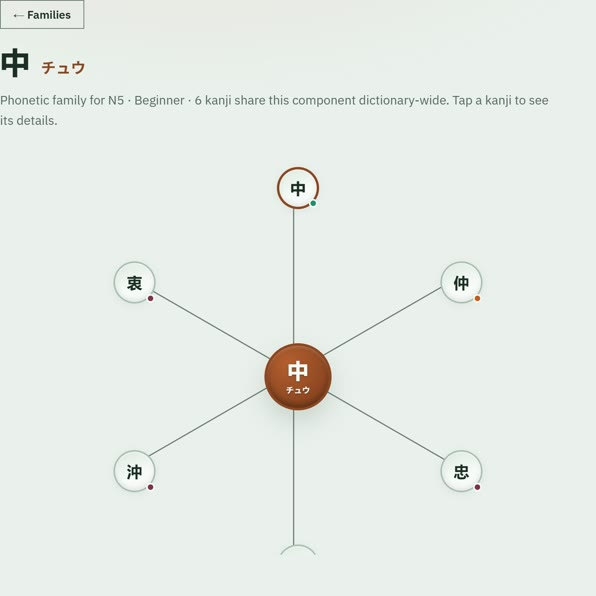
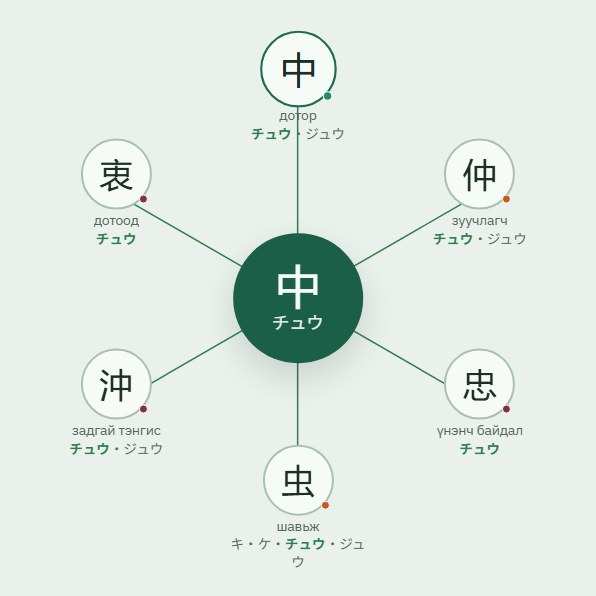
Phonetics Family takes its own seal, so the page is operated in the colour it is presented in
Option 1 of the palette audit, on the one page where it applies cleanly.

The hunch that started this was that the buttons were tinted to match the
Claude logo. The logo part is not what happened: nothing in the repo
references an Anthropic colour, and the three accents named were all set in
the original page builds on 2026-08-03/05 and had not moved since. The wider
version of the hunch was right. Anthropic's brand hues are 15, 15, 25 and 40
degrees; six of this site's eight interior accents sat between 9 and 38, six
of eight grounds were within 10 rgb units of #F4F1EA (path.css's --paper is
TWO units from it), and both display faces are serifs. That triad is the
first item in the list of AI-generated-design cliches Claude's own design
guidance names and says to avoid.

The discipline to fix it already existed and had been applied to one layer
only: the six hub --seal values WERE deliberately spread across the wheel,
and the interiors never obeyed them. Phonetics therefore PRESENTED teal
(160deg) and was OPERATED in copper (22deg), 138 degrees apart. The
2026-10-24 work that made each masthead match its seal touched the chrome
only, so on this page it widened the gap rather than closing it.

--accent is now #1f6b52, the seal index.html gives this tool, exactly -- the
probe asserts equality against the masthead rather than eyeballing it. Every
value is solved at hue 160 against this page's three real grounds in both
[…]

diff --git a/phonetics.css b/phonetics.css
@@ -2,9 +2,14 @@
    "Light jade" theme: this page's own scoped color palette, entirely separate from the
    shared style.css :root tokens (same pattern as game.css's .game-main "digital hanafuda"
    theme). A pale jade/celadon paper ground — the color of aged bronze seen as glaze rather
-   than as patina on dark metal — paired with the same warm copper accent (the un-oxidized
-   metal), so this still reads distinctly from Word Match's burgundy/gold page without
-   doubling up on a red accent.
+   as patina on dark metal — paired with the jade of this page's own hub seal.
+
+   The accent was a warm copper (#b35f2f, 22deg) until 2026-11-07, which put it in the
+   9-38deg band six of the site's eight surfaces were sitting in, and 138deg away from the
+   #1f6b52 seal that index.html gives this tool and that the masthead above it already wears.
+   You pressed a teal button on the home page and arrived somewhere entirely copper. The
+   accent is now derived from that seal, so the page is operated in the colour it is
+   presented in.
 
    Scoped to .phonetics-main (this page's whole content area) AND #phonetics-info-modal (the
    explainer modal). The modal is a DOM sibling of .phonetics-main, not a descendant — it lives
@@ -49,20 +54,29 @@ body:has(.phonetics-main),
        under the 4.5 floor for the small text they carry */
     --text-muted: #55665b;
     --text-muted: light-dark(#55665b, #93a89a);
-    --accent: #b35f2f;
-    --accent-light: #d1834f;
-    --accent-dark: #8c4620;
-    --accent-dark: light-dark(#8c4620, #e8a677);
-    --accent-tint: rgba(179, 95, 47, 0.12);
-    --accent-tint: light-dark(rgba(179, 95, 47, 0.12), rgba(209, 131, 79, 0.18));
-    /* Deliberately NOT the usual (--accent-light -> --accent) pair used on the other pages.
-       .auth-btn (style.css, shared sitewide, not editable here) hardcodes a white label on
-       var(--accent-gradient); white on --accent-light is only 2.97:1, so the canonical pair
-       would fail at the gradient's light end. Shifting the ramp one notch darker
-       (--accent -> --accent-dark) keeps white at 4.57:1 -> 6.97:1 across the whole fill,
-       which is a cleaner fix than overriding the button's label color per-page. */
-    --accent-gradient: linear-gradient(135deg, var(--accent), var(--accent-dark));
-    --accent-gradient-hover: linear-gradient(135deg, var(--accent-dark), #6f3618);
+    /* The jade of this page's own hub seal. --accent IS the seal exactly, so the fill a
+       visitor pressed on index.html and the fills inside the page are one colour. Every value
+       below is solved at hue 160, the seal's own hue, against this page's three real grounds
+       (--bg-surface #f7fbf8, --bg-page #eaf1ec, --bg-surface-alt #dde9e0 in light; #17201a,
+       #101613, #1e2a22 in dark). */
+    --accent: #1f6b52;
+    --accent-light: #35b68b;
+    /* --accent-light is a FILL and never text: on this page's pale grounds it measures under
+       2:1. Text takes --accent-dark, which is used in 39 places here. */
+    --accent-dark: #1b5f48;
+    --accent-dark: light-dark(#1b5f48, #2ea07a);
+    --accent-tint: rgba(31, 107, 82, 0.12);
+    --accent-tint: light-dark(rgba(31, 107, 82, 0.12), rgba(46, 160, 122, 0.18));
+    /* The gradient is PINNED to fixed dye, identical in both themes, the way Grammar Connect's
+       start button and Dokkai Reader's are -- it is NOT built from --accent-dark.
+       .auth-btn (style.css, shared sitewide, not editable here) hardcodes a WHITE label on
+       var(--accent-gradient), and --accent-dark lightens in dark mode: built the old way the
+       dark gradient ran to a pale jade and white fell to 3.27:1. The copper this replaces had
+       exactly that bug and still measured 2.07:1 on its own light stop in dark mode, which is
+       why this is pinned rather than carried over. White clears 4.54:1 on the near stop and
+       7.56:1 on the far one, in both themes. The lightest stop is the one that has to clear. */
+    --accent-gradient: linear-gradient(135deg, #268565, #1b5f48);
+    --accent-gradient-hover: linear-gradient(135deg, #1b5f48, #123f30);
     --shadow-sm: 0 2px 10px rgba(28, 47, 37, 0.08);
     --shadow-sm: 0 2px 10px light-dark(rgba(28, 47, 37, 0.08), rgba(0, 0, 0, 0.45));
     --shadow-md: 0 14px 32px rgba(28, 47, 37, 0.16);
@@ -123,7 +137,7 @@ body:has(.phonetics-main) {
        ground — on the pale jade it would read as a dirty smear. Same gesture, rebuilt as a
        faint warm copper haze off the page's own accent. */
     background:
-        radial-gradient(ellipse 90% 50% at 50% -8%, rgba(179, 95, 47, 0.10) 0%, transparent 60%),
+        radial-gradient(ellipse 90% 50% at 50% -8%, rgba(31, 107, 82, 0.10) 0%, transparent 60%),
         var(--bg-page);
     color: var(--text-primary);
 }

diff --git a/sw.js b/sw.js
@@ -20,7 +20,7 @@
 // stale-while-revalidate, so it serves the cached copy first and only refreshes behind it --
 // without a bump, a returning PWA user runs the previous version of a fixed file for one more
 // visit. Whether that matters is a judgement call; for a correctness fix it generally does.
-const CACHE_VERSION = 'khan-japanese-v209';
+const CACHE_VERSION = 'khan-japanese-v210';
 
 const APP_SHELL = [
     './',

diff --git a/CLAUDE.md b/CLAUDE.md
@@ -15,7 +15,7 @@ Supabase (Postgres + Auth). Hosted on GitHub Pages. Git repo on `main`.
 | `about.html` | Sarantsatsral's personal "About Me" resume/portfolio page — reached via the footer's "About Me" column or the hub's developer card, not the top nav. Fully standalone: its own `about.css` (forest-teal "Field Dossier" theme), no shared `style.css`, no masthead/footer, a sticky left index-rail layout instead. English only, no i18n. Has its own compact account popover (`.about-account*` classes) rather than the shared masthead's side drawer, but wired through the same `auth-shared.js` and load-bearing IDs (see Account menu below). |
 | `path.html` | Study Path (学びの道) — a six-stage route from no Japanese at all to N1, mapping each stage onto specific tools and level ranges. `<main class="path-main">` / `path.css` (warm paper, sumi ink, one saffron marker). **Rebuilt 2026-10-12 as a map plus six pages.** `path.html` is now only the map: a Dunning-Kruger confidence curve with the six stages as points on it (lowest before JLPT, peak at N3, trough at N2, N1 recovering), plus a folded `<details>` explaining that the famous curve is not in Kruger & Dunning 1999 and is largely a statistical artefact. Each point links to its own page -- `path-kana.html`, `path-n5.html` ... `path-n1.html`, `<main class="path-stage-main">` -- which carries that stage's full text, a minimap showing where it sits on the curve, and prev/next links. **The whole thing is static**: the curve's path data, every point's left/top and each minimap are generated from one list of six anchor points and written into the HTML, so there is no script on any of these pages, the route is crawlable and the road can never disagree with the points. The six stage pages share path.html's nav entry via a rule in `build-chrome.js`'s `withCurrent`. The old spine layout (`.path-route`/`.path-stage`/`.path-marker`) is gone. **Not in the masthead nav on purpose** — it is a route through the tools rather than a tool, and it is reached from the hub's `.hub-startpath` banner and the footer's Study tools column. (The row had no space either, until the 2026-09-16 regrouping; now it has, and this stays out by choice.) The per-stage hour ranges are external rules of thumb, labelled as such on the page (`.path-hours-note`, on the map AND on all six stage pages -- see the audit below; that claim was false from the 2026-10-12 rebuild until 2026-11-06); every level range in the copy is real and will drift if the tools change. |
 | `game.html` | Word Match ("言葉合わせ") — hexagonal-card **memory** game, JLPT N5–N1. `<main class="game-main">` / `game.css`. **Rebuilt 2026-10-21** (see Word Match below): the honeycomb-matching board, the 4-minute clock, streaks, powerups, the lightning chain and the Wakan flyer are all gone, and `game-board.js`, `game-play.js` and `game-wakan.js` went with them. Palette is now "hanafuda in daylight" — tatami straw, violet card backs, one gold, every surface a flat colour — with the old lacquer board kept as the dark theme. |
-| `phonetics.html` | Phonetics Family — kanji grouped by shared phonetic component, ranked by usage. `<main class="phonetics-main">` / `phonetics.css` (light jade/copper). **Rebuilt 2026-10-15 as one surface with four views** — gate → board → tree → round — and it no longer loads `phonetics-data.js` at all (see Phonetics below). `phonetics-drill.html` was retired with that rebuild: the round is a view on this page now. |
+| `phonetics.html` | Phonetics Family — kanji grouped by shared phonetic component, ranked by usage. `<main class="phonetics-main">` / `phonetics.css` (light jade; the accent was a warm copper until 2026-11-07, see The palette audit below). **Rebuilt 2026-10-15 as one surface with four views** — gate → board → tree → round — and it no longer loads `phonetics-data.js` at all (see Phonetics below). `phonetics-drill.html` was retired with that rebuild: the round is a view on this page now. |
 | `grammar.html` | Grammar Connect — sentence-swap grammar drill. `<main class="grammar-main">` / `grammar.css`. The data is still two tracks of twenty, but the **level select is four bands of ten** as of 2026-10-24 (see Grammar Connect below): a triangle gate and ten right-facing play-button tiles in a row. |
 | `reading.html` | Dokkai Reader — speech-recognition-driven reading practice. `<main class="reading-main">` / `reading.css` (plum on linen, light). **Rebuilt 2026-10-29** (see Dokkai Reader below): a persistent side info bar beside a stage that swaps between three views, and a level select of twelve regular pentagons. `#text-list-section` is gone — the texts open in a panel beside the pentagons. |
 | `dictionary.html` | Mongol-Japan Dictionary — two tabs: primary Монгол⇄日本語 (`mnjp-data.js`), secondary 漢語⇄和語 Kango/Wago (`dictionary-data.js`, lazy-loaded only when that tab opens). Reads a `?q=` URL param on load to pre-fill/filter the primary tab — the target of the home page's search bar. `<main class="dictionary-main">` / `dictionary.css`. **A picked word opens in a panel beside the list as of 2026-11-01** (see The kanji breakdown below), not in a strip under its own row, and the page has no display title or description. |
@@ -243,7 +243,7 @@ see `tutorial.js`'s `THEME_MAP`, which exists for exactly this reason. CSS custo
 means every `var(--x)` in that file picks up the page-local value automatically. `about.css` is
 the one exception — it doesn't load `style.css` at all, so its tokens live on a real `:root`
 instead of being scoped to its wrapper class. Current palette: hub deep wine/gold (dark),
-phonetics light jade/copper, reading plum-on-linen (light), grammar its own accent, dictionary
+phonetics light jade (accent and ground both, since 2026-11-07), reading plum-on-linen (light), grammar its own accent, dictionary
 its own accent, dashboard the brand's own gold-and-wine, game dark hanafuda violet/gold, about forest-teal,
 origins warm paper with this page's own hub-seal colour (see Kana Origins below).
 **Each page's colors and layout are deliberately distinct — don't reintroduce a shared template
@@ -1372,6 +1372,66 @@ selected tab by definition, so both are derived from one comparison.
 `grammar-index.js` carries no Kanjium or KANJIDIC2 material — the sentences are this project's
 own — so unlike `kanji-index.js` it stays **MIT** and needs no LICENSE section 2 entry and no
 `credits.html` row.
+
+**THE PALETTE AUDIT, AND WHY SIX OF EIGHT SURFACES WERE ONE COLOUR** (2026-11-07). Reported
+as a hunch that the buttons were tinted to match the Claude logo. The logo part is not what
+happened -- nothing in the repo references an Anthropic colour, and the three accents named
+(`--shu` `#bc4430`, `--terracotta` `#b5502e`, `--accent` `#b35f2f`) were all set in the original
+page builds on 2026-08-03/05 and had not moved since. **The wider version of the hunch was
+right.** Measured: Anthropic's brand hues are 15, 15, 25 and 40 degrees; six of this site's
+eight interior accents sat between **9 and 38 degrees**, six of eight page grounds were within
+**10 rgb units of `#F4F1EA`** (`path.css`'s `--paper` `#f4f1e8` is TWO units from it), and both
+display faces are serifs. That triad -- warm cream, serif display, terracotta accent -- is the
+first item in the list of AI-generated-design cliches that Claude's own design guidance names
+and says to avoid. The site was not wearing the logo's colour; it was wearing the aesthetic that
+produces it.
+**Three mechanisms, none visible from inside any one file.** Materials were NAMED, not measured
+-- shu (朱, seal vermilion), copper, terracotta and saffron sound like four decisions and are
+four points on one arc, never laid side by side as numbers. Contrast-solving CONVERGES: every
+warm accent gets walked darker until text clears 4.5, and Study Path's saffron and the
+Dashboard's brand gold started from different places and landed one degree apart, because
+mid-saturation warm at 33% lightness is a narrow place to end up. And warm is the default
+affordance colour, reached for independently by each page.
+**The discipline already existed and was applied to one layer only.** The six hub `--seal`
+values WERE deliberately spread across the wheel, and the reader's plum was picked in October by
+measuring where the gap was. The interiors never obeyed. Two pages therefore PRESENTED one
+colour and were OPERATED in another: Phonetics showed teal (160deg) and ran copper (22deg),
+**138 degrees apart**, and the Dictionary showed navy (211deg) and ran terracotta (15deg), 164
+apart. The 2026-10-24 work that made each masthead match its seal touched the CHROME only, so on
+those two pages it widened the gap rather than closing it.
+
+**Phonetics Family now takes its own seal, and the Dictionary deliberately does not**
+(2026-11-07, the agreed fix). `phonetics.css`'s accent set is derived from `#1f6b52`, the seal
+`index.html` gives the tool: `--accent` IS the seal exactly, so the fill pressed on the home page
+and the fills inside the page are one colour (asserted in the probe, not eyeballed). Every value
+is solved at hue 160 against this page's three real grounds in both themes; worst text 4.56:1,
+Quick Test bar 7.24 light / 5.11 dark.
+**The gradient is PINNED to fixed dye and must not be rebuilt from `--accent-dark`.** `.auth-btn`
+in `style.css` hardcodes a WHITE label on `var(--accent-gradient)`, and `--accent-dark` lightens
+in dark mode -- built the canonical way the dark gradient ran to a pale jade and white fell to
+**3.27:1**. The copper this replaced had exactly that bug and measured **2.07:1** on its own
+light stop in dark mode, a pre-existing failure found only because the swap forced the gradient
+to be re-solved. It is `#268565 -> #1b5f48` in both themes now, white 4.54 and 7.56. The
+lightest stop is the one that has to clear.
+**`images/hub/phonetics-tree.jpg` is a SCREENSHOT of this page** and the hub ghosts it behind the
+seal on hover, so a palette change stales it -- the same trap the reader's plum change hit. It
+was re-shot (and was doubly stale: the file on disk still showed the pre-2026-10-15 layout with
+its old "Families" header). Match the siblings: 596px, `deviceScaleFactor: 1`, ~28KB.
+**The DICTIONARY was left alone on purpose, and this is the interesting half.** Its seal navy
+`#23405f` measures **dE 6.8** from `--khukh` `#2a4d73`, the blue that already marks the Mongolian
+side -- so a straight swap would have made `#dict-tab-mnjp.active` and `#dict-tab-wakan.active`
+one colour, when they are 73.4 apart today. `--terracotta` is doing TWO jobs there: the page
+accent (hovers, focus rings, the cross-links into Phonetics Family and Grammar Connect) AND the
+wago marker paired against khukh. The page already matches its seal in the way that matters,
+because its content is blue-coded. **Option 1 does not apply mechanically to every page**, and
+the measurement is what showed it -- the screenshot preview could not, because the two colours
+never appear in one shot.
+**Still open from the audit, by choice:** N3 and N2 measure dE 14.3 apart in LIGHT on the Study
+Path discs (pre-existing, proved against HEAD); the grounds and the serif display faces are
+untouched, which are the two signals louder than the accents; and `images/share/phonetics.jpg`
+is stale on four counts (Sep 13, old 言 mark, pre-rebuild layout, copper, and a "1,128 ханз"
+stat for a tool that now loads 684) -- regenerating rebuilds every tool's card and Facebook
+caches previews, so it wants doing deliberately, exactly as `images/share/reading.jpg` still does.
 
 **`desk-sfx.js` — the sound of a desk** (2026-11-01, `phonetics.html` and `grammar.html`).
 Word Match has `CardSfx` and every cue in it is a card being handled, because that is what the
